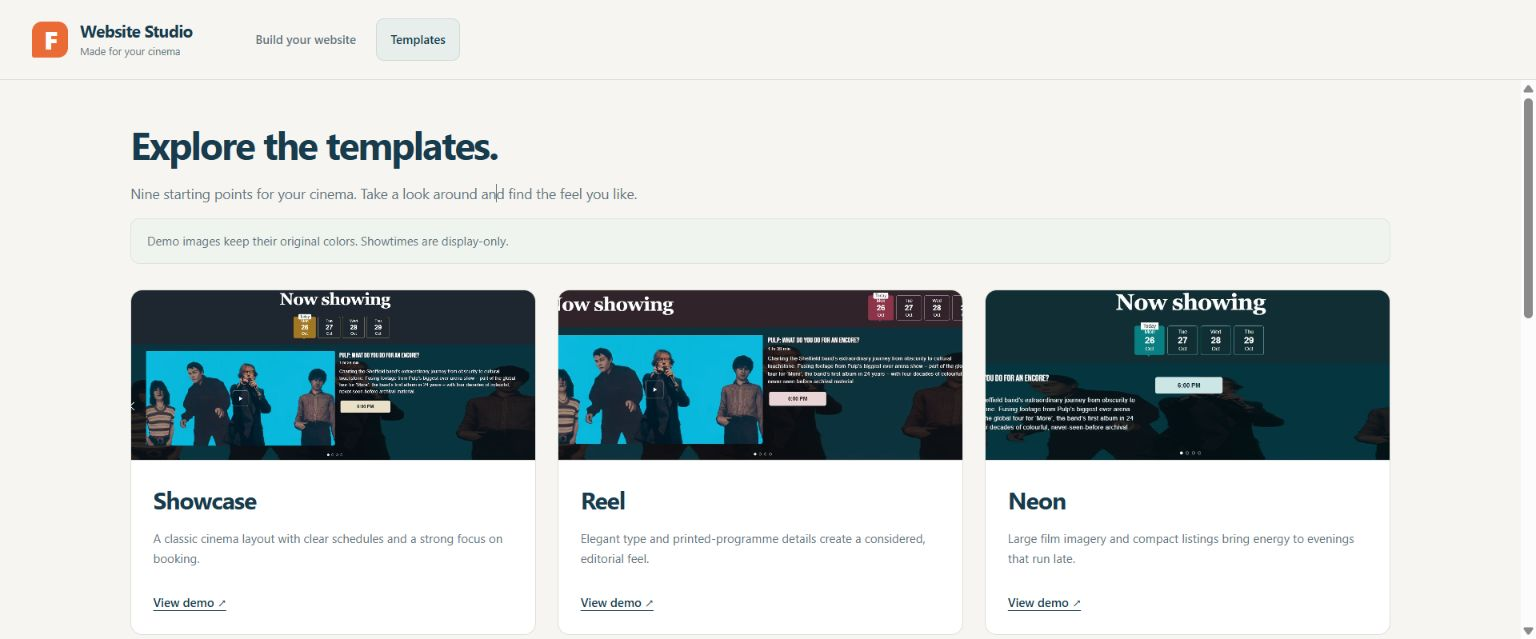
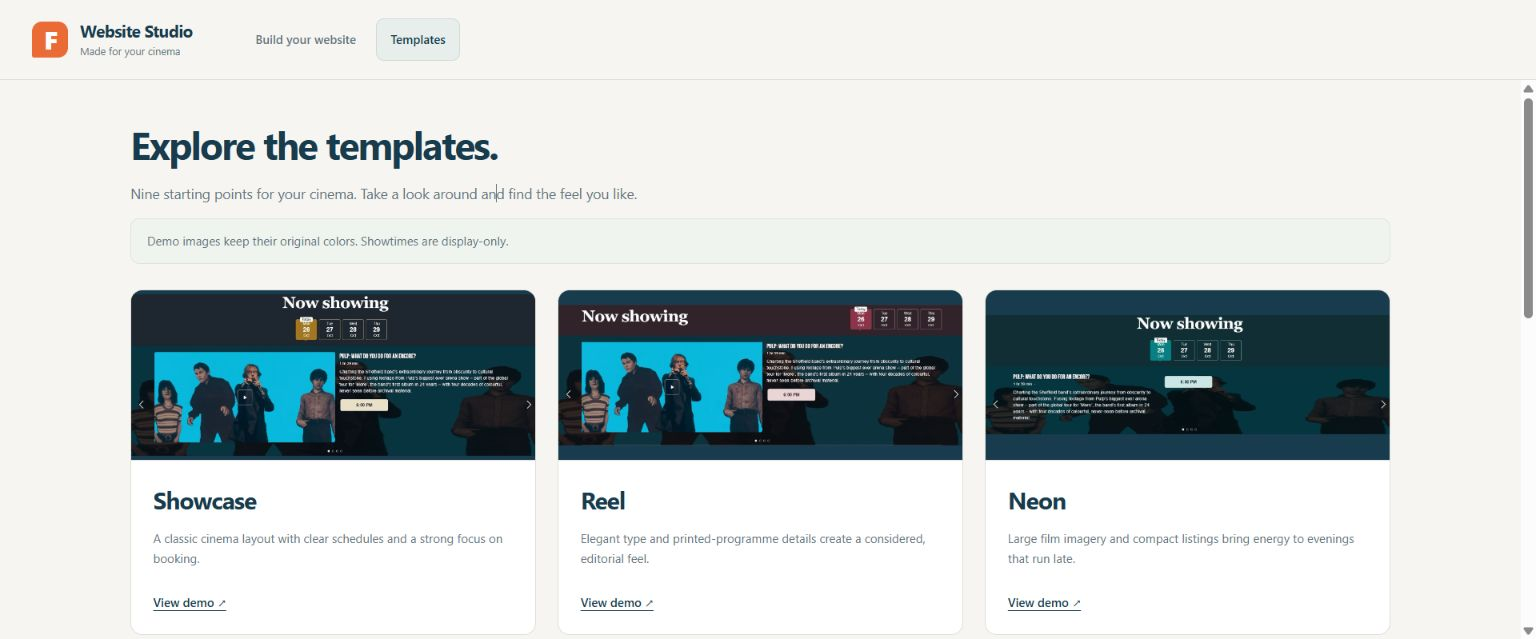
Keep complete hero layouts visible in gallery thumbnails

Changed region(s): [[0.0625, 0.446, 0.9062, 0.7433]]

diff --git a/styles.css b/styles.css
@@ -345,7 +345,7 @@ dialog::backdrop { background: #132f3db3; backdrop-filter: blur(3px); }
 .hub-notice { padding: 13px 16px; border: 1px solid #dce4df; border-radius: 9px; background: #eff4ef; color: var(--muted); font-size: 12px; }
 .hub-grid { display: grid; grid-template-columns: repeat(3, minmax(0, 1fr)); gap: 22px; margin-top: 26px; }
 .hub-card { display: flex; flex-direction: column; min-width: 0; overflow: hidden; border: 1px solid var(--line); border-radius: 12px; background: #fff; }
-.hub-card__image { display: block; width: 100%; height: 170px; object-fit: cover; object-position: top; border-bottom: 1px solid var(--line); background: var(--soft); }
+.hub-card__image { display: block; width: 100%; height: 170px; object-fit: contain; object-position: center; border-bottom: 1px solid var(--line); background: var(--ink); }
 .hub-card__body { display: flex; flex-direction: column; flex: 1; padding: 22px; }
 .hub-card__eyebrow { margin-bottom: 7px; color: var(--muted); font-size: 10px; }
 .hub-card__title { margin-bottom: 10px; font-size: 24px; letter-spacing: -.035em; }
